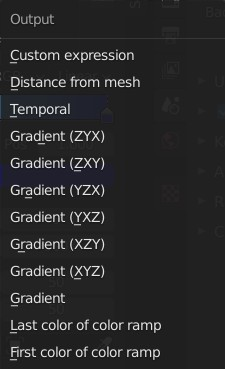
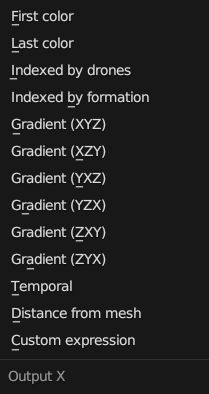
doc: added documentation for color image based light effects

Changed region(s): [[0.0, 0.0298, 0.7177, 0.6856], [0.0287, 0.7154, 0.7177, 0.9837], [0.0, 0.0894, 0.0287, 0.1192]]

diff --git a/CHANGELOG.md b/CHANGELOG.md
@@ -58,6 +58,9 @@ using them.
   trajectory and a slightly increased time needed to land the entire swarm
   safely. This is an experimental feature.
 
+- Besides the one dimensional color ramp, a two dimensional color image can also be
+  used as the base color space of light effects to be mapped onto the drones with the desired output mapping. In case of color images, both dimensions / axes can accept any output mapping type.
+
 ### Fixed
 
 - View scaling setting from the Blender preferences is now taken into account
